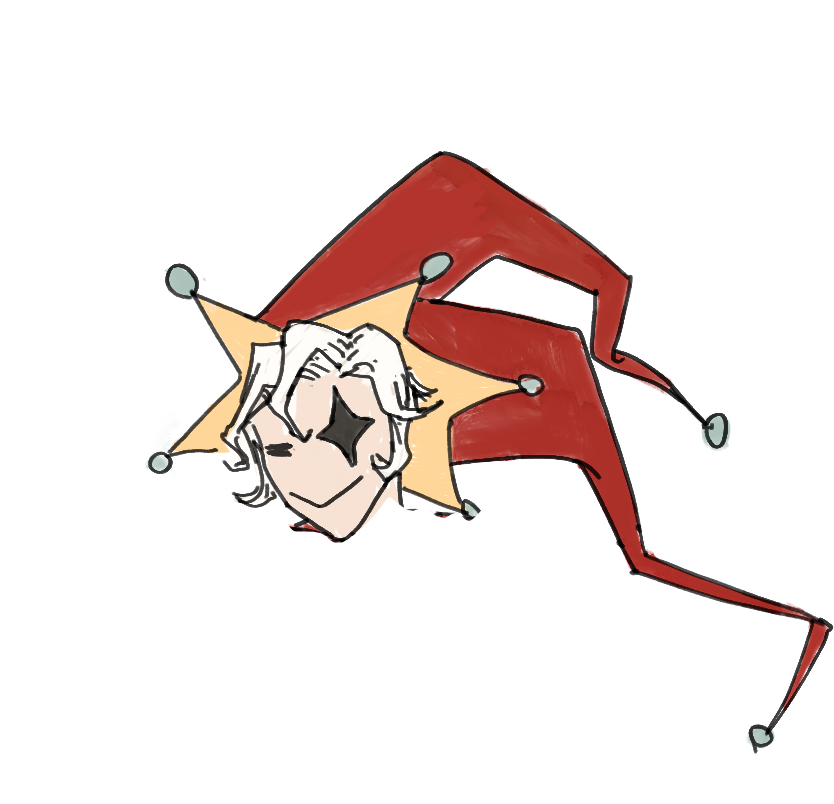
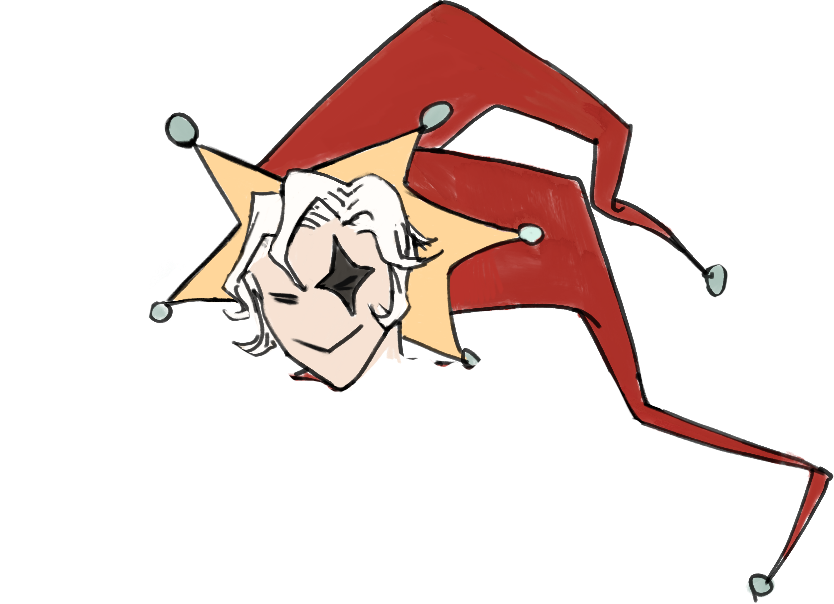
Adjust head position offset in drawAvatar function for improved alignment

Changed region(s): [[0.1559, 0.0, 1.0, 1.0]]

diff --git a/code/2025-11-11mirrorupdate/sketch.js b/code/2025-11-11mirrorupdate/sketch.js
@@ -296,7 +296,7 @@ function drawAvatar(landmarks, gesture) {
     const offsetMult = -0.14; // smaller negative => head moves right relative to previous
     const pivotX = midShoulder.x - shoulderDist * offsetMult;
     // move head down a little by adding a positive downward offset (tweak HEAD_DOWN multiplier)
-    const HEAD_DOWN = shoulderDist * 0.48;
+    const HEAD_DOWN = shoulderDist * 0.98;
     const pivotY = midShoulder.y - NECK_UP + HEAD_DOWN;
 
     // compute head rotation angle (falls back to shoulders)
